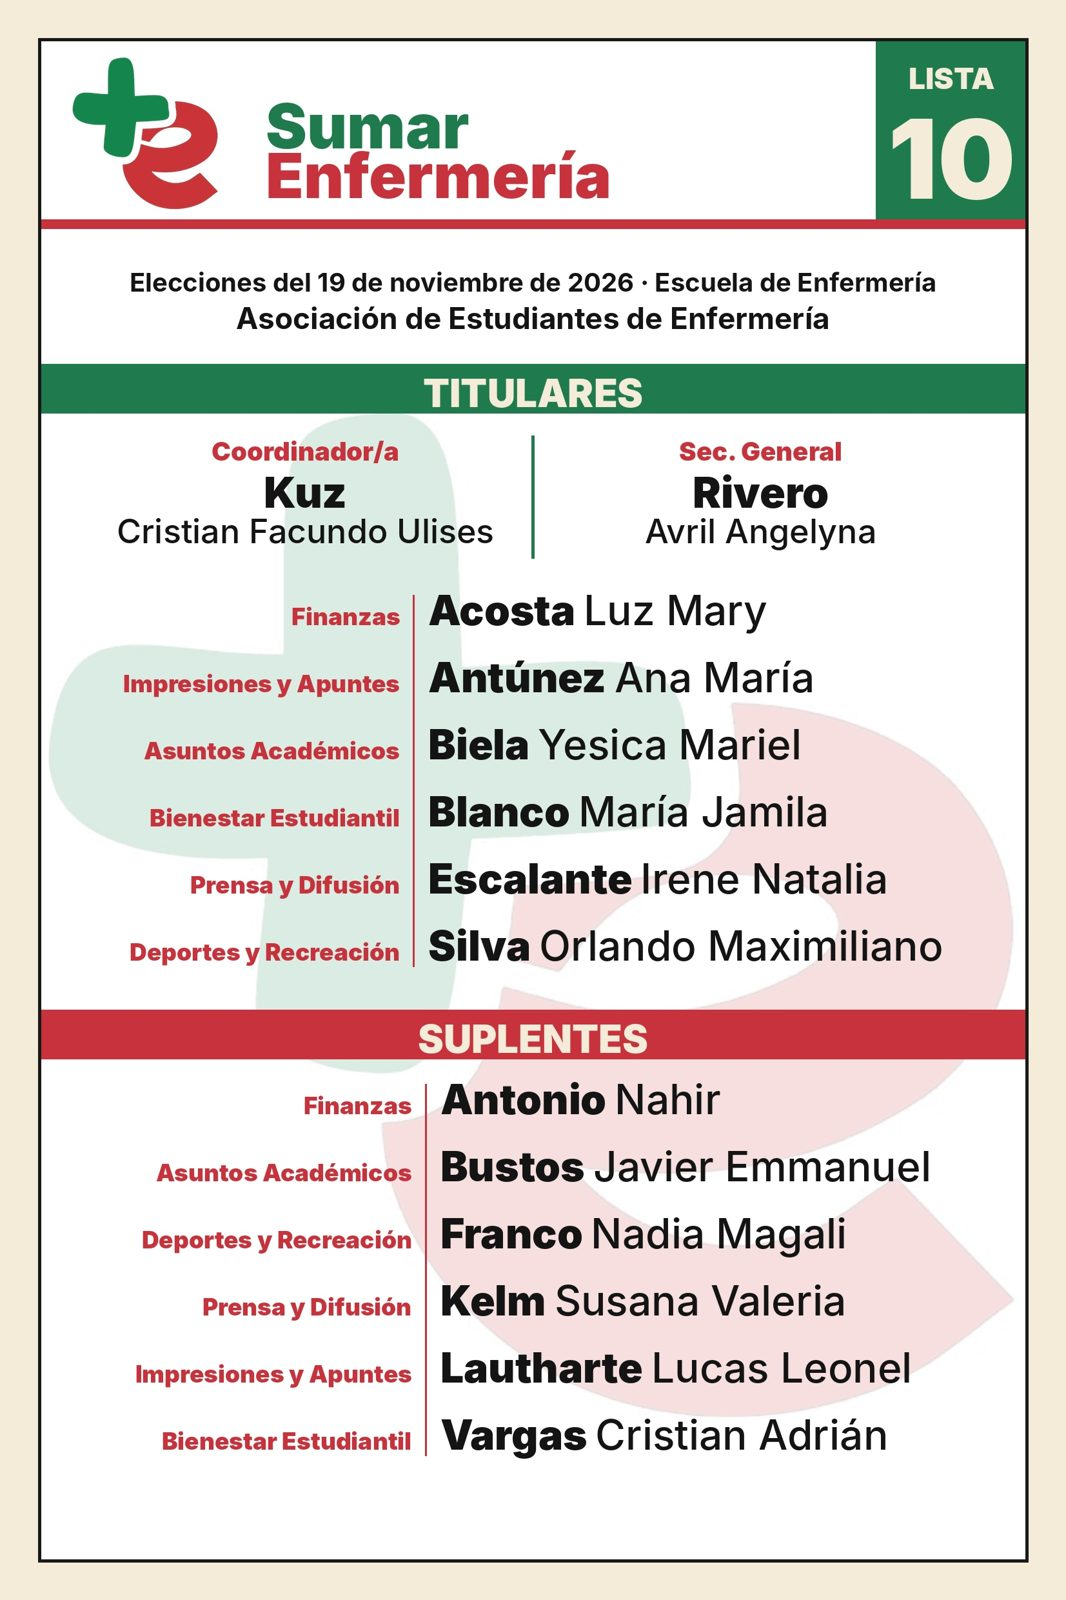
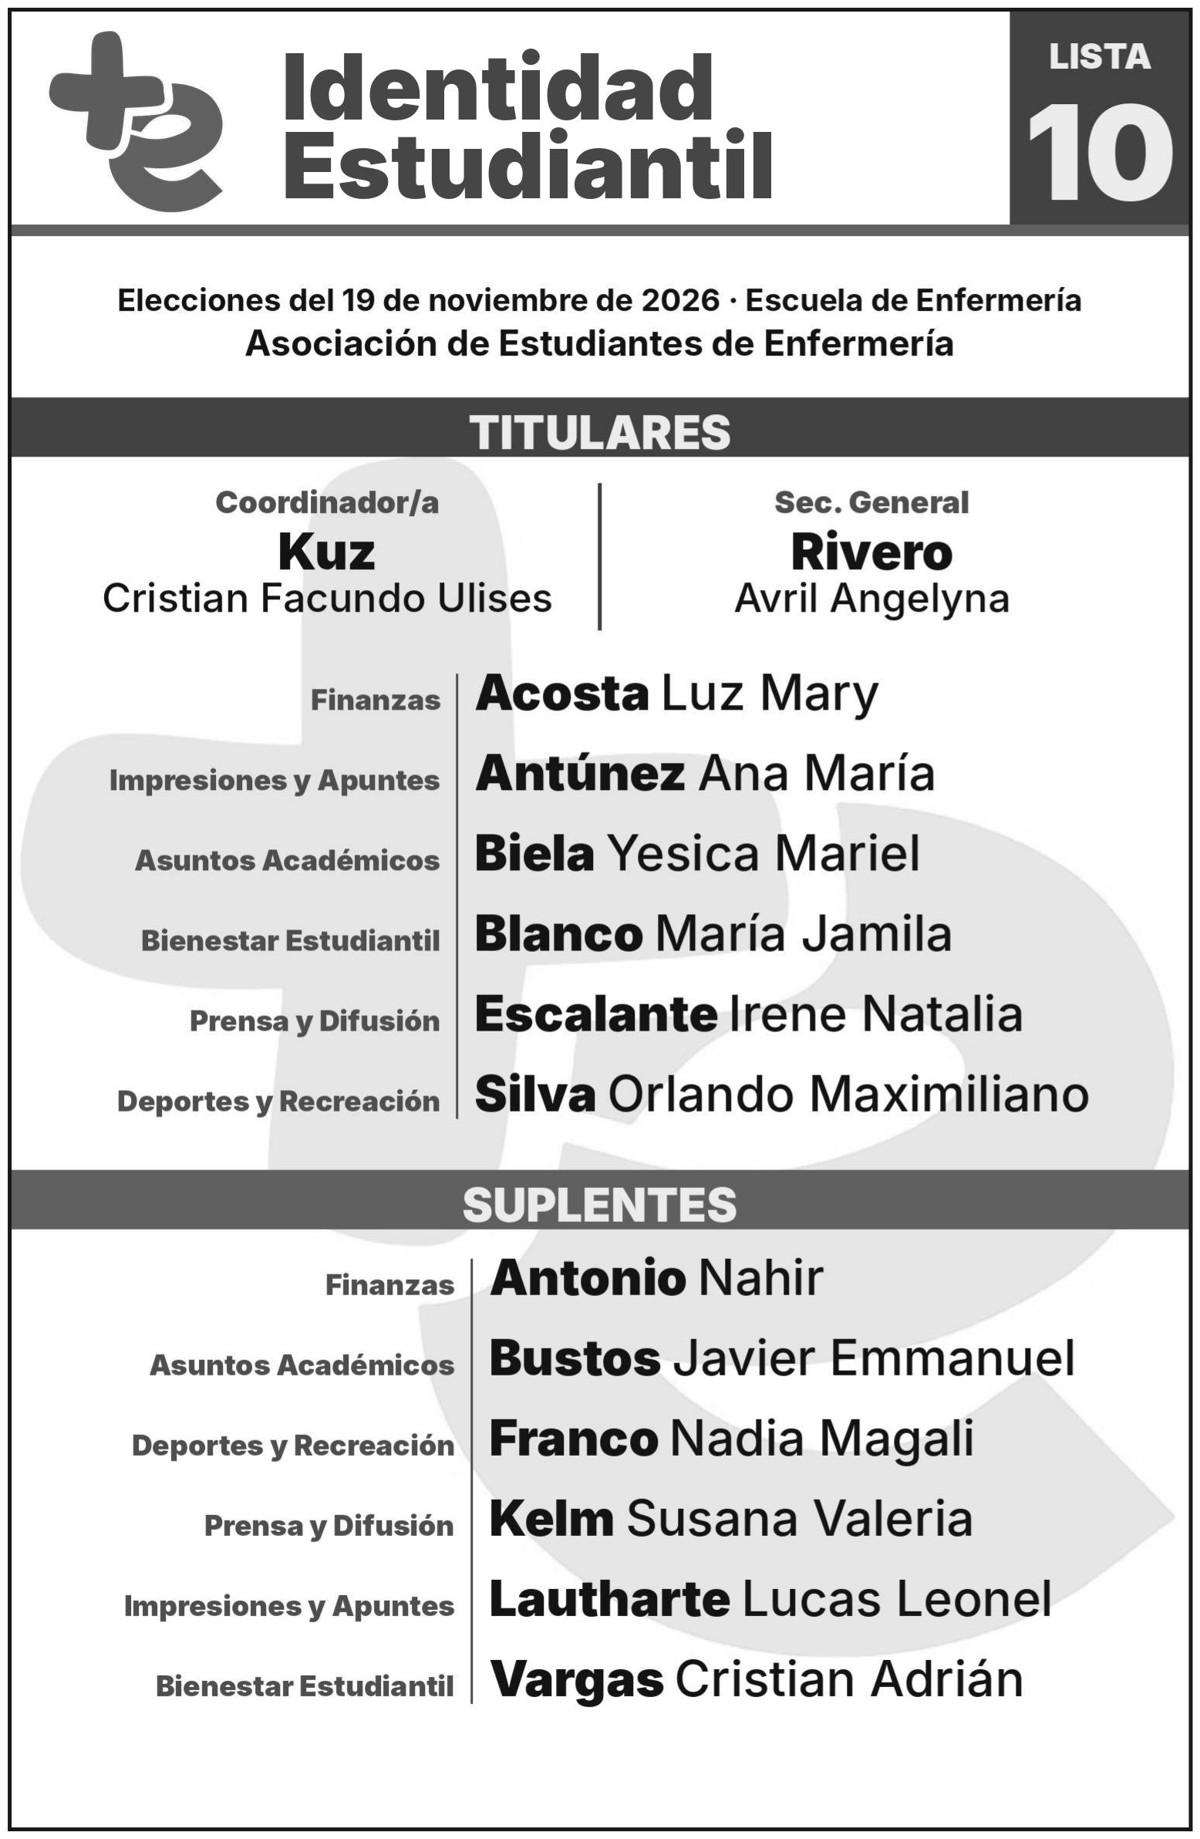
Boleta aprobada por la Junta (Identidad Estudiantil · Lista 10)

diff --git a/index.html b/index.html
@@ -198,7 +198,7 @@ section{padding:84px 0;position:relative}
 .boleta img{width:200px;height:auto;border-radius:4px;box-shadow:0 10px 24px -12px rgba(0,0,0,.5)}
 .boleta h3{margin:0 0 8px;font-family:'Archivo';font-weight:900;text-transform:uppercase;font-size:clamp(26px,3.6vw,38px);line-height:1}
 .boleta p{margin:0;font-size:17px;color:var(--texto-2)}
-@media (max-width:640px){.boleta{grid-template-columns:1fr}.boleta img{width:160px}}
+@media (max-width:640px){.boleta{grid-template-columns:1fr}.boleta img{width:230px}}
 
 /* PADRÓN */
 #padron{padding-top:20px}
@@ -444,11 +444,11 @@ footer img{height:36px;width:auto}
       <div class="paso rev"><h4>Cuándo</h4><p><span class="dato">Jueves 19 de noviembre</span><br>De <span class="dato">8 a 20 h</span><br><a class="mapa" href="https://calendar.google.com/calendar/render?action=TEMPLATE&amp;text=Votar+Lista+10+%C2%B7+Sumar+Enfermer%C3%ADa&amp;dates=20261119T110000Z/20261119T230000Z&amp;details=Elecciones+de+la+Asociaci%C3%B3n+de+Estudiantes+de+Enfermer%C3%ADa.+Llev%C3%A1+tu+DNI+y+vot%C3%A1+Lista+10.&amp;location=Escuela+de+Enfermer%C3%ADa+UNaM%2C+L%C3%B3pez+Torres+y+Mariano+Moreno%2C+Posadas" target="_blank" rel="noopener">Agendarlo en el calendario →</a></p></div>
       <div class="paso rev"><h4>Dónde</h4><p>Escuela de Enfermería, UNaM.<br><span class="dato">López Torres y Mariano Moreno</span><br><a class="mapa" href="https://www.google.com/maps/search/?api=1&amp;query=Escuela+de+Enfermer%C3%ADa+UNaM+L%C3%B3pez+Torres+y+Mariano+Moreno+Posadas" target="_blank" rel="noopener">Ver en el mapa →</a></p></div>
       <div class="paso rev"><h4>Antes de ir</h4><p>Asegurate de estar en el padrón y asistí con tu <span class="dato">DNI</span>.<br><a class="mapa" href="#padron">Buscarme en el padrón →</a></p></div>
-      <div class="paso rev"><h4>A quién</h4><p>Buscá la boleta de <span class="dato">Sumar Enfermería · Lista 10</span>.</p></div>
+      <div class="paso rev"><h4>A quién</h4><p>Buscá la boleta <span class="dato">Lista 10</span>: en la boleta figuramos como <span class="dato">Identidad Estudiantil</span>.</p></div>
     </div>
     <div class="boleta rev">
-      <a href="img/boleta-grande.jpg" target="_blank" rel="noopener" class="boleta-link" aria-label="Ver la boleta en grande"><img src="img/boleta.jpg" alt="Boleta de Sumar Enfermería, Lista 10" width="400" height="600" loading="lazy"><span>Tocá para ampliar</span></a>
-      <div><h3>Así es nuestra boleta</h3><p>Verde y roja, con el logo de Sumar Enfermería y el número 10 arriba a la derecha.</p></div>
+      <a href="img/boleta-grande.jpg?v=2" target="_blank" rel="noopener" class="boleta-link" aria-label="Ver la boleta en grande"><img src="img/boleta.jpg?v=2" alt="Boleta Lista 10, Identidad Estudiantil, con la lista de titulares y suplentes" width="400" height="613" loading="lazy"><span>Tocá para ampliar</span></a>
+      <div><h3>Así es nuestra boleta</h3><p>Dice <b>Identidad Estudiantil</b>, con nuestro logo y el número <b>10</b> arriba a la derecha. Es la boleta de Sumar Enfermería, en blanco y negro.</p></div>
     </div>
   </div>
 </section>
